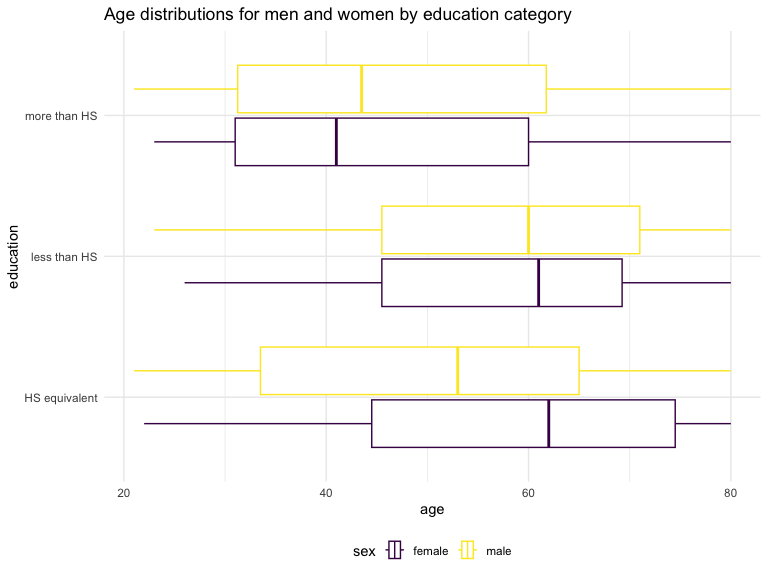
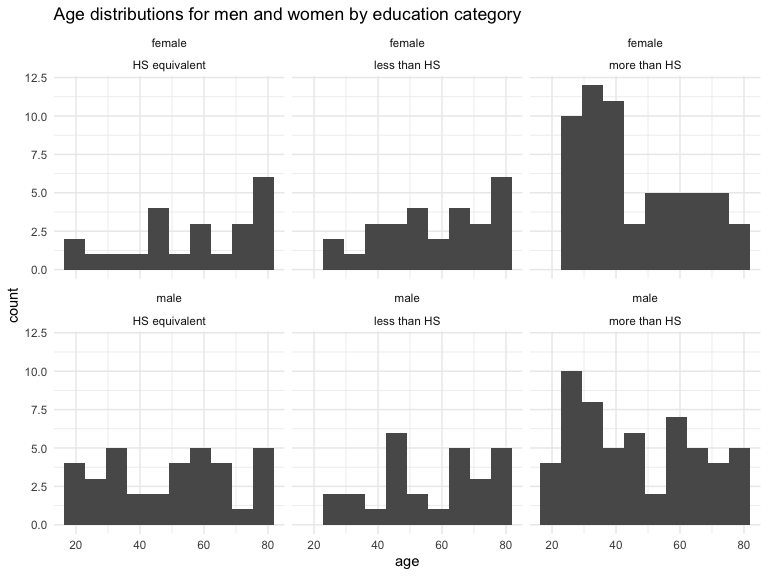
fix histogram and make total activity variable

diff --git a/p8105_hw3_jer2243.md b/p8105_hw3_jer2243.md
@@ -334,9 +334,41 @@ COMMENT
 
 ``` r
 merged_data_2 |>
-  ggplot(aes(x=age, y=education, color=sex)) + geom_boxplot() +
+  ggplot(aes(x=age)) +
+  geom_histogram(bins=10) +
+  facet_wrap(sex~education) +
   labs(title = "Age distributions for men and women by education category")
 ```
 
 <img src="p8105_hw3_jer2243_files/figure-gfm/unnamed-chunk-17-1.png" width="90%" />
 COMMENT
+
+## Create total activity variable
+
+``` r
+merged_data_2 |>
+  mutate(
+    total_activity = rowSums(across(c(min1:min1440))
+  ))
+```
+
+    ## # A tibble: 228 × 1,446
+    ##     seqn sex      age   bmi education     min1   min2   min3  min4   min5   min6
+    ##    <dbl> <chr>  <dbl> <dbl> <chr>        <dbl>  <dbl>  <dbl> <dbl>  <dbl>  <dbl>
+    ##  1 62161 male      22  23.3 HS equivale… 1.11  3.12   1.47   0.938 1.60   0.145 
+    ##  2 62164 female    44  23.2 more than HS 1.92  1.67   2.38   0.935 2.59   5.22  
+    ##  3 62169 male      21  20.1 HS equivale… 5.85  5.18   4.76   6.48  6.85   7.24  
+    ##  4 62174 male      80  33.9 more than HS 5.42  3.48   3.72   3.81  6.85   4.45  
+    ##  5 62177 male      51  20.1 HS equivale… 6.14  8.06   9.99   6.60  4.57   2.78  
+    ##  6 62178 male      80  28.5 HS equivale… 0.167 0.429  0.131  1.20  0.0796 0.0487
+    ##  7 62180 male      35  27.9 more than HS 0.039 0      0      0     0.369  0.265 
+    ##  8 62184 male      26  22.1 HS equivale… 1.55  2.81   3.86   4.76  6.10   7.61  
+    ##  9 62189 female    30  22.4 more than HS 2.81  0.195  0.163  0     0.144  0.180 
+    ## 10 62199 male      57  28   more than HS 0.031 0.0359 0.0387 0.079 0.109  0.262 
+    ## # ℹ 218 more rows
+    ## # ℹ 1,435 more variables: min7 <dbl>, min8 <dbl>, min9 <dbl>, min10 <dbl>,
+    ## #   min11 <dbl>, min12 <dbl>, min13 <dbl>, min14 <dbl>, min15 <dbl>,
+    ## #   min16 <dbl>, min17 <dbl>, min18 <dbl>, min19 <dbl>, min20 <dbl>,
+    ## #   min21 <dbl>, min22 <dbl>, min23 <dbl>, min24 <dbl>, min25 <dbl>,
+    ## #   min26 <dbl>, min27 <dbl>, min28 <dbl>, min29 <dbl>, min30 <dbl>,
+    ## #   min31 <dbl>, min32 <dbl>, min33 <dbl>, min34 <dbl>, min35 <dbl>, …
